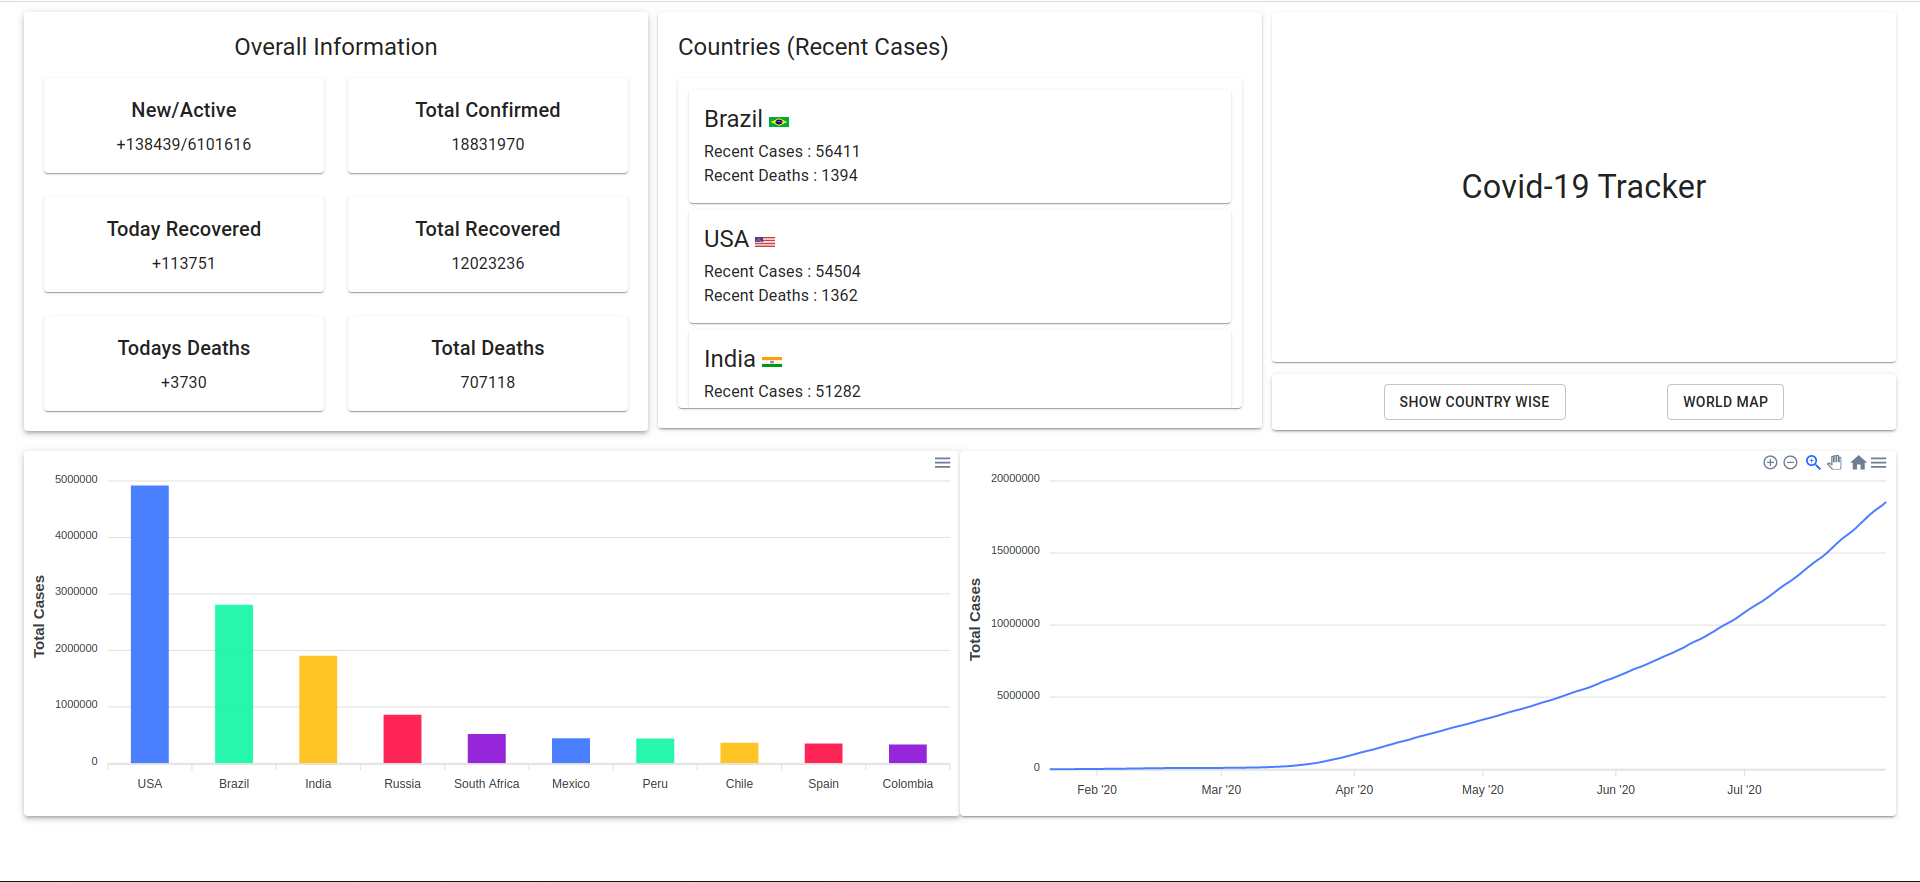
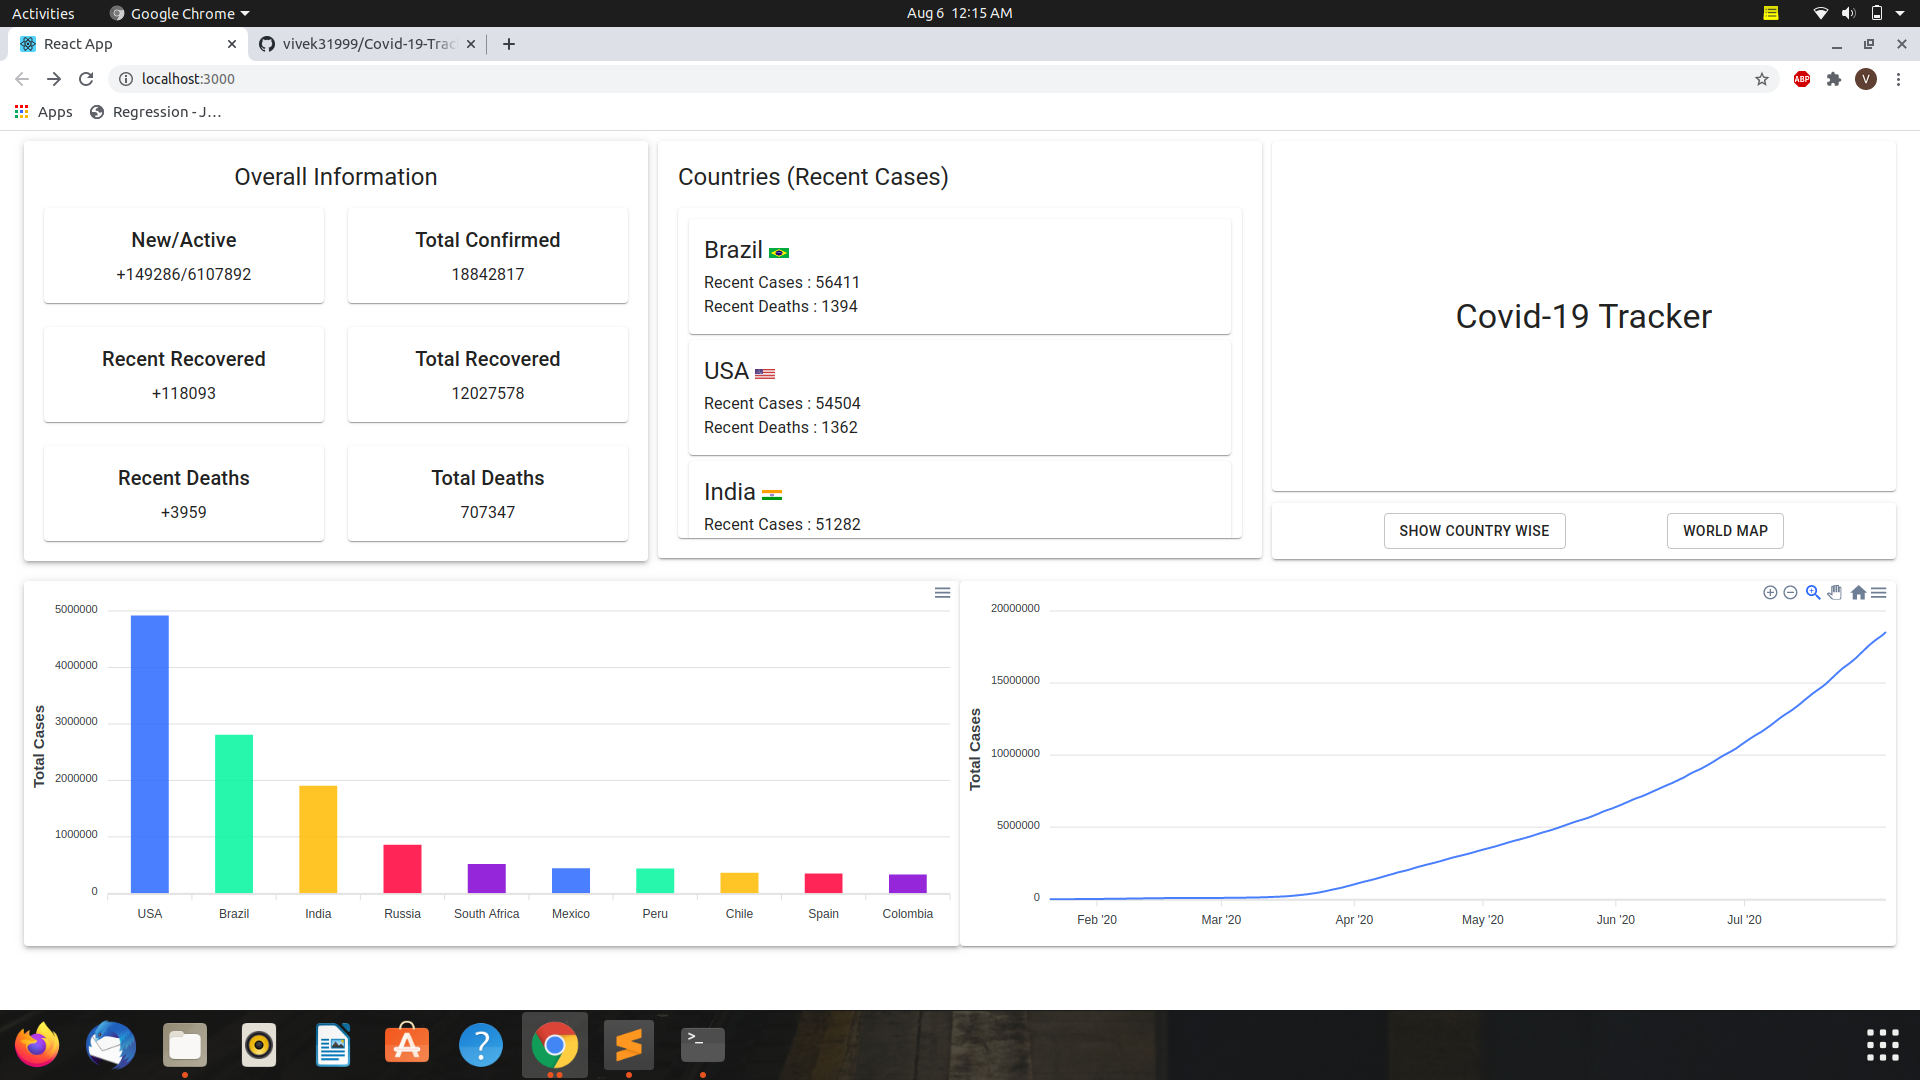
updated ss

diff --git a/src/Components/Overall/Overall.jsx b/src/Components/Overall/Overall.jsx
@@ -53,7 +53,7 @@ const Overall = () => {
                         </Grid>
                         <Grid item lg={6} md={6} xs={6} >
                             <Paper className={classes.paper}>
-                                <Typography variant="h6" gutterBottom>Today Recovered</Typography>
+                                <Typography variant="h6" gutterBottom>Recent Recovered</Typography>
                                 {loading?<CircularProgress size={20}/>:<Typography>+{data.todayRecovered}</Typography>}
                             </Paper>
                         </Grid>
@@ -65,7 +65,7 @@ const Overall = () => {
                         </Grid>
                         <Grid item lg={6} md={6} xs={6} >
                             <Paper className={classes.paper}>
-                                <Typography variant="h6" gutterBottom>Todays Deaths</Typography>
+                                <Typography variant="h6" gutterBottom>Recent Deaths</Typography>
                                 {loading?<CircularProgress size={20}/>:<Typography>+{data.todayDeaths}</Typography>}
                             </Paper>
                         </Grid>
